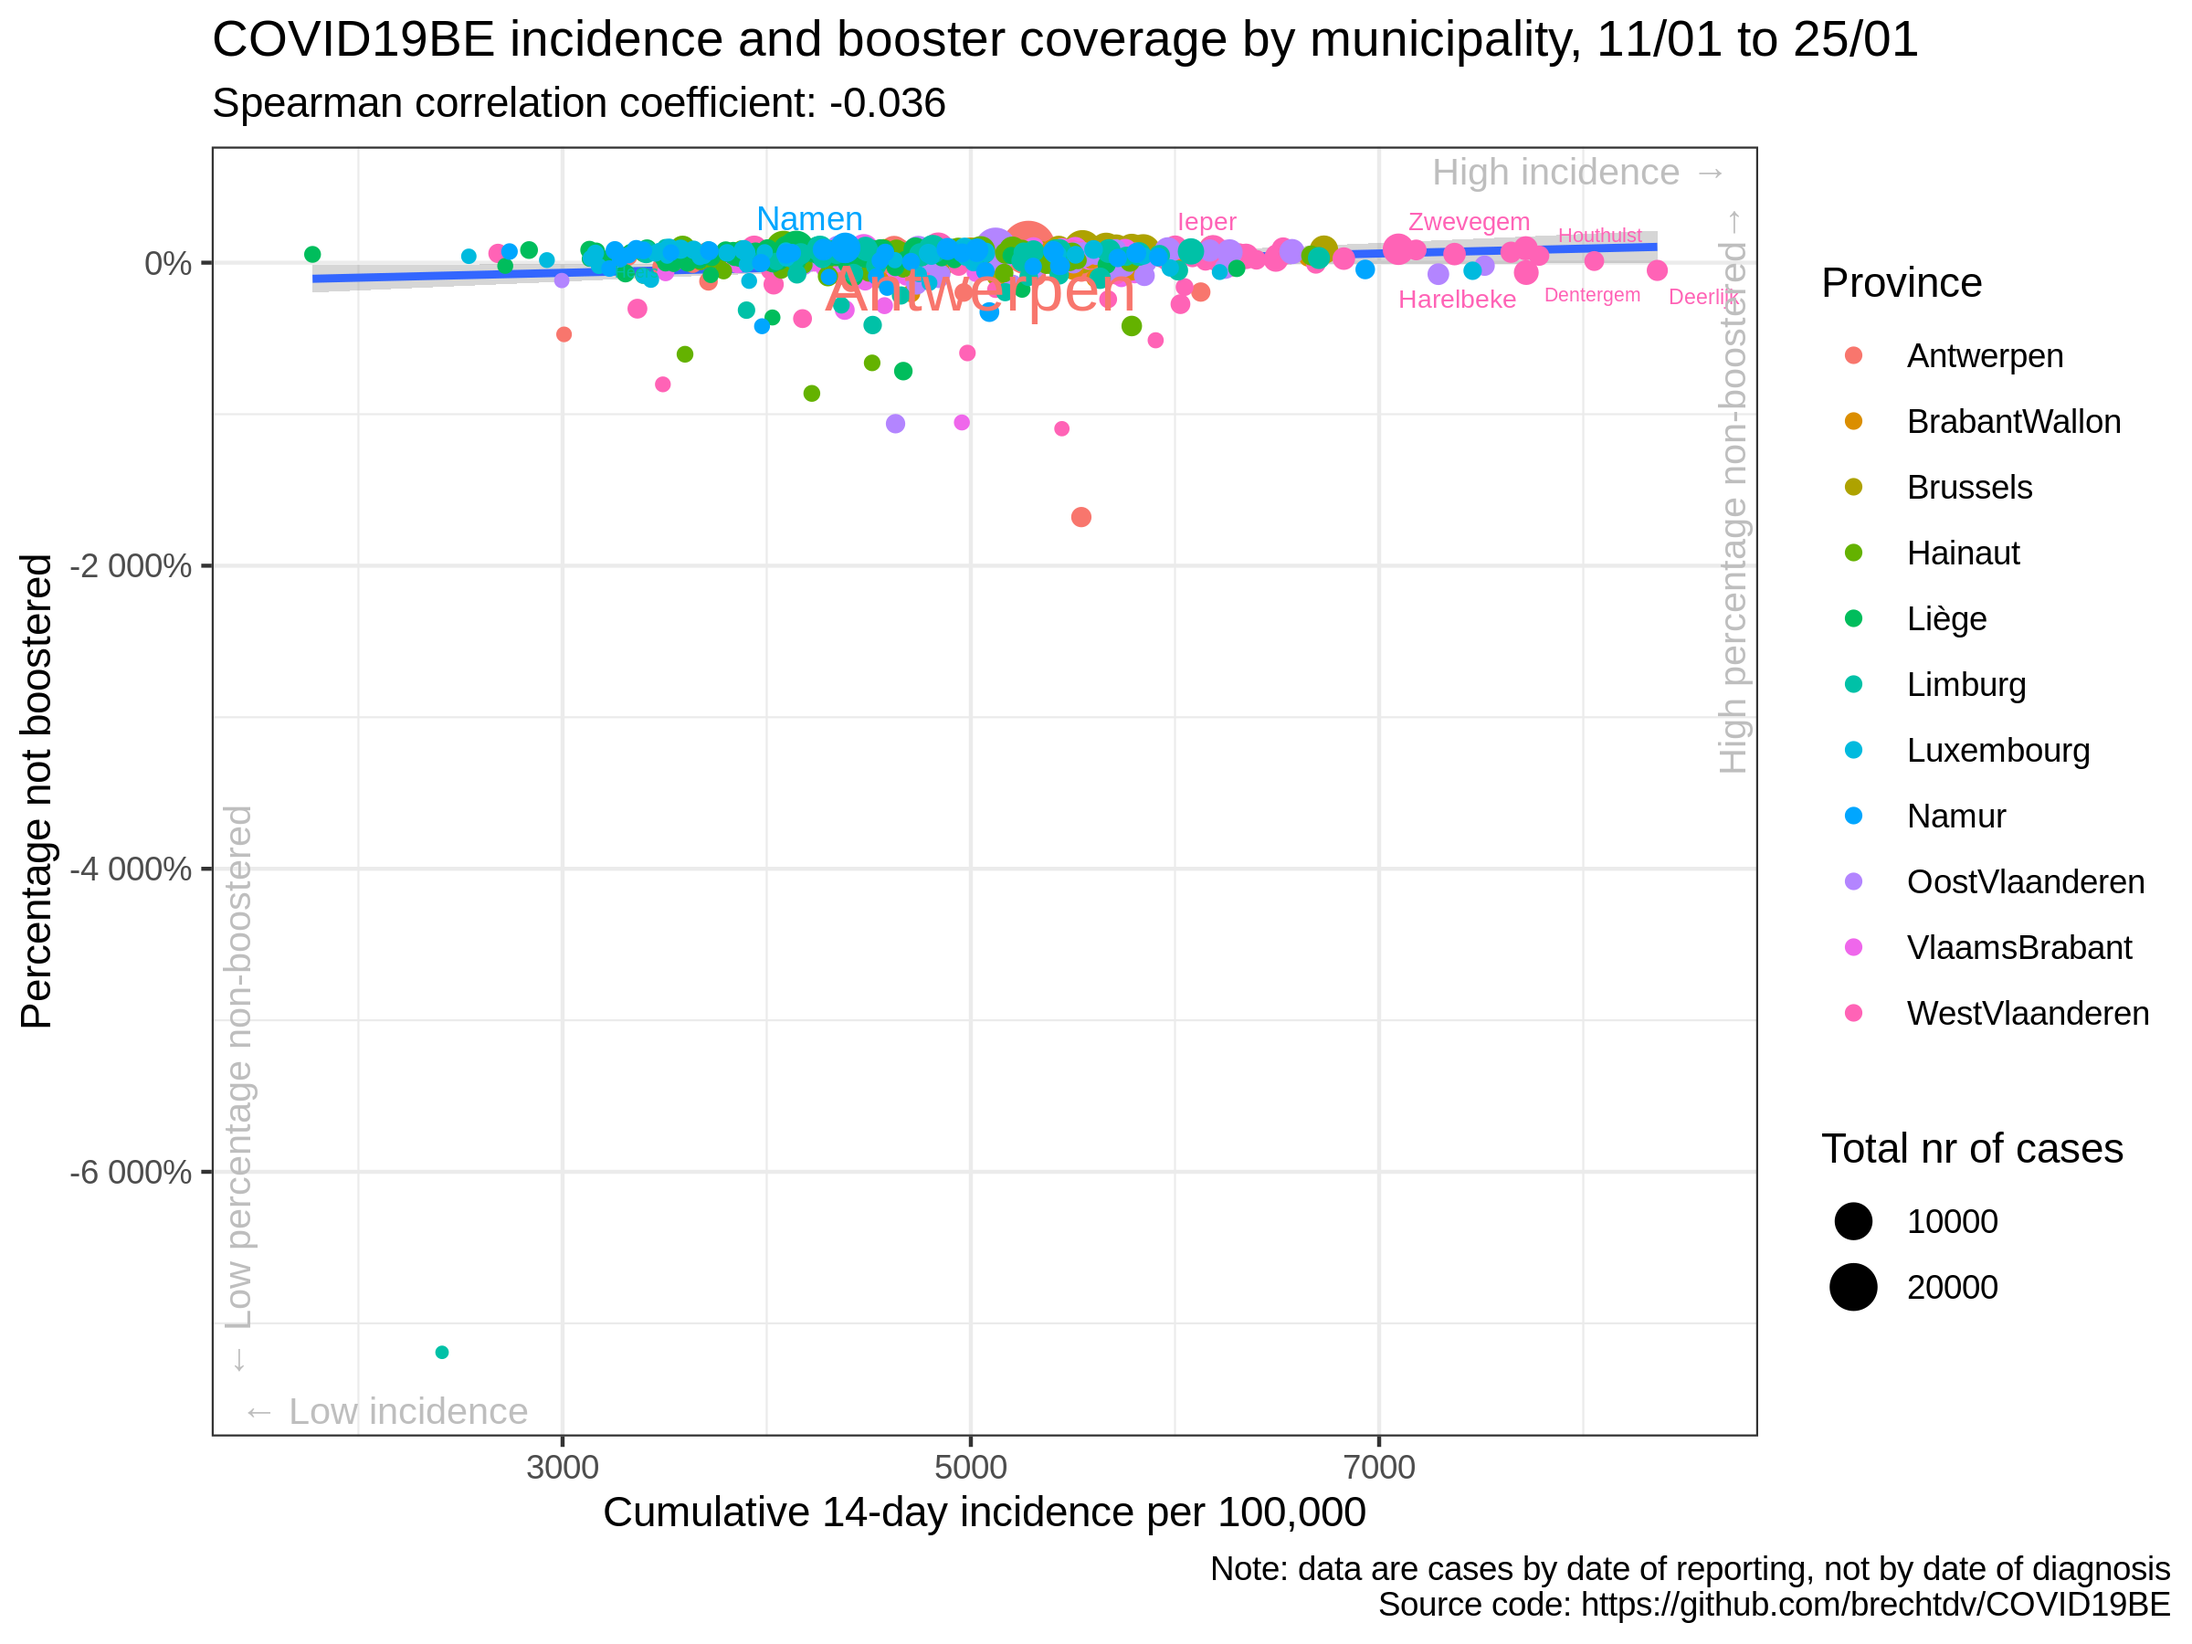
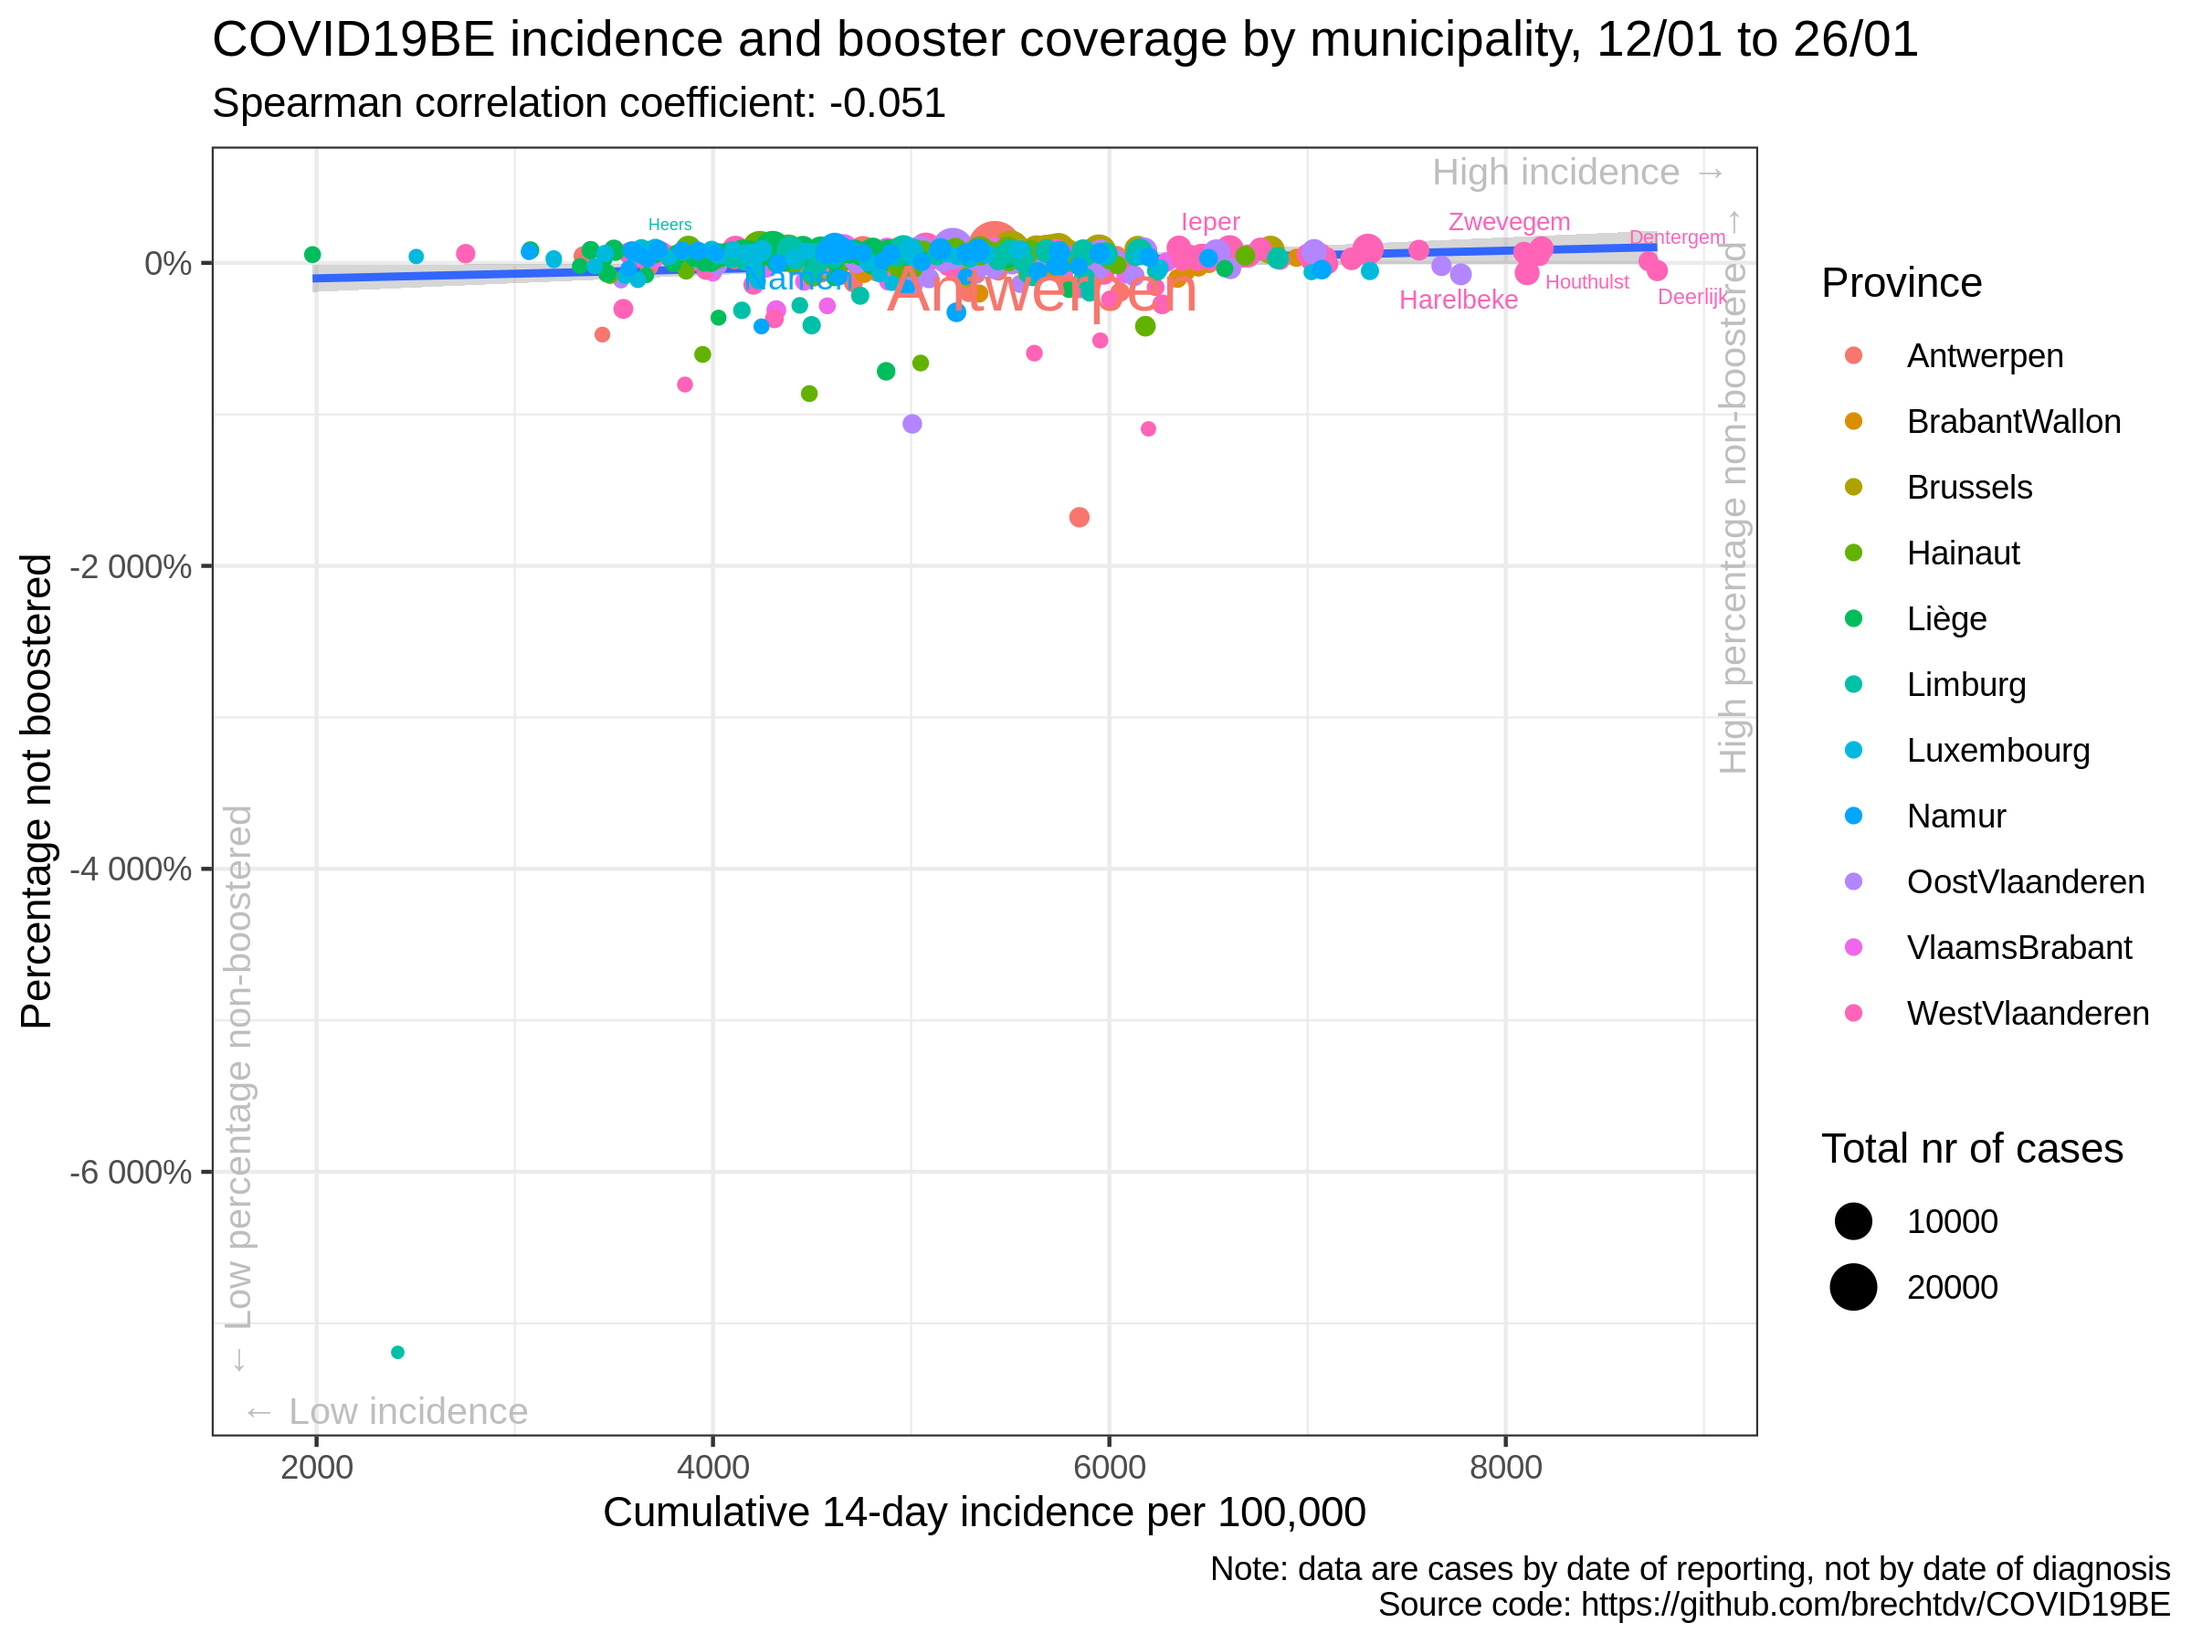
update situation

diff --git a/vaccination/README.md b/vaccination/README.md
@@ -17,35 +17,35 @@
 
 |                | estimate.rho | p.value |
 | :------------- | -----------: | ------: |
-| Antwerpen      |        0.039 |   0.753 |
-| BrabantWallon  |      \-0.219 |   0.272 |
-| Brussels       |        0.588 |   0.009 |
-| Hainaut        |        0.029 |   0.814 |
-| Liège          |      \-0.081 |   0.462 |
-| Limburg        |        0.104 |   0.512 |
-| Luxembourg     |      \-0.083 |   0.590 |
-| Namur          |      \-0.264 |   0.114 |
-| OostVlaanderen |        0.020 |   0.880 |
-| VlaamsBrabant  |        0.080 |   0.526 |
-| WestVlaanderen |        0.159 |   0.210 |
-| Belgium        |      \-0.023 |   0.588 |
+| Antwerpen      |        0.040 |   0.742 |
+| BrabantWallon  |      \-0.335 |   0.089 |
+| Brussels       |        0.504 |   0.030 |
+| Hainaut        |      \-0.014 |   0.911 |
+| Liège          |      \-0.074 |   0.500 |
+| Limburg        |        0.074 |   0.639 |
+| Luxembourg     |      \-0.069 |   0.654 |
+| Namur          |      \-0.279 |   0.095 |
+| OostVlaanderen |      \-0.014 |   0.913 |
+| VlaamsBrabant  |        0.079 |   0.533 |
+| WestVlaanderen |        0.124 |   0.328 |
+| Belgium        |      \-0.038 |   0.356 |
 
 ### Correlation cumulative incidence vs booster rate
 
 |                | estimate.rho | p.value |
 | :------------- | -----------: | ------: |
-| Antwerpen      |        0.046 |   0.708 |
-| BrabantWallon  |      \-0.223 |   0.261 |
-| Brussels       |        0.582 |   0.010 |
-| Hainaut        |        0.039 |   0.747 |
-| Liège          |      \-0.090 |   0.414 |
-| Limburg        |        0.102 |   0.519 |
-| Luxembourg     |      \-0.093 |   0.545 |
-| Namur          |      \-0.243 |   0.147 |
-| OostVlaanderen |        0.032 |   0.806 |
-| VlaamsBrabant  |        0.073 |   0.561 |
-| WestVlaanderen |        0.167 |   0.188 |
-| Belgium        |      \-0.036 |   0.381 |
+| Antwerpen      |        0.044 |   0.721 |
+| BrabantWallon  |      \-0.339 |   0.084 |
+| Brussels       |        0.512 |   0.027 |
+| Hainaut        |      \-0.002 |   0.990 |
+| Liège          |      \-0.081 |   0.461 |
+| Limburg        |        0.073 |   0.645 |
+| Luxembourg     |      \-0.083 |   0.592 |
+| Namur          |      \-0.260 |   0.120 |
+| OostVlaanderen |      \-0.001 |   0.996 |
+| VlaamsBrabant  |        0.066 |   0.598 |
+| WestVlaanderen |        0.133 |   0.294 |
+| Belgium        |      \-0.051 |   0.220 |
 
 ### Data source
 
